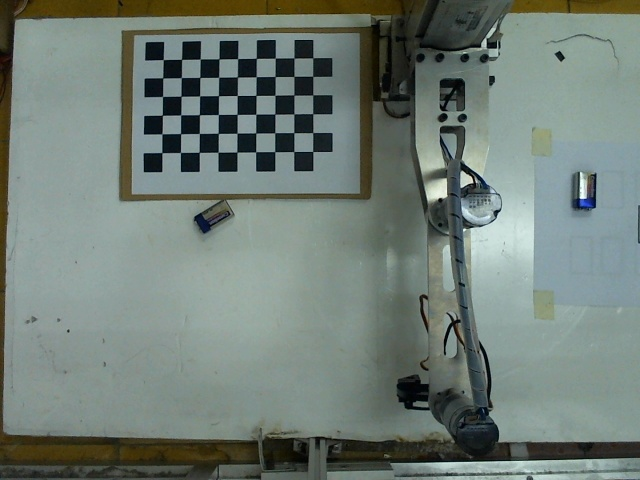
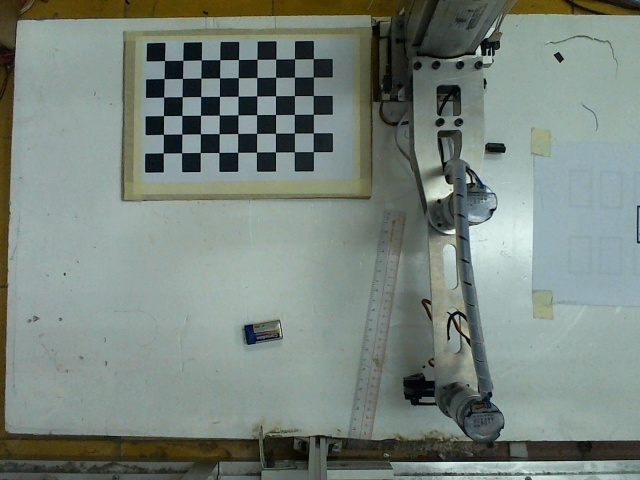
update for blue filter, new style message UART

diff --git a/MainController.py b/MainController.py
@@ -28,6 +28,7 @@ class Ui_MainControllerUI(object):
     stateAutoMode = False
     stateProcess = False
     stateHoming = False
+    mode = 1
     # running = threading.Event()
     # running.set()
     ser = serial.Serial()
@@ -368,7 +369,7 @@ class Ui_MainControllerUI(object):
 
         self.timer = QtCore.QTimer()
         self.timer.timeout.connect(self.read_data)
-        self.timer.start(300)
+        # self.timer.start(300)
         
         # Initialize callbacks and events
         ## For Screens
@@ -478,6 +479,7 @@ class Ui_MainControllerUI(object):
     '''Custom close event ***very important '''
     def closeEvent(self, *arg):
         self.ser = Ui_ConfigurationUI.ser
+        self.mode = Ui_ConfigurationUI.mode - 1
         self.SetState(Ui_ConfigurationUI.state)
            
     ''' Open Configuration Ui '''
@@ -526,50 +528,29 @@ class Ui_MainControllerUI(object):
         if self.state == True:
             buf = self.ser.read(self.ser.inWaiting())
             message = buf.decode('utf-8')
-            
-            # if b'[' in buf and b']' in buf:
-            #     start = buf.find(b'[')
-            #     buf = buf[start + 1:]
-            #     end = buf.find(b']')
-            #     message = buf[:end].decode('utf-8')
-            # else:
-            #     message = ''
         else:
             buf = 0
             message = ''
         if message != '':
+            print(message)
             command = message
-            print(len(command))
-            # arrayCoordinates = message.split(',')
-            # print(arrayCoordinates)
-            # self.xCurLbl.setText(arrayCoordinates[0])
-            # self.yCurLbl.setText(arrayCoordinates[1])
-            # self.zCurLbl.setText(arrayCoordinates[2])
-            # print(arrayCoordinates[3])
-            # print(arrayCoordinates[4])
             if command == 'c':
-                # for index in self.positionDictionary:
-                #     if arrayCoordinates[4] == index:
-                #         nextPoints = self.positionDictionary[index]
-                # nextX, nextY, nextAngle = nextPoints[0], nextPoints[1], nextPoints[2]
-                # mess = UARTMessage(nextX, nextY, nextAngle, 'r')
-                # mess_bytes = bytes(mess, encoding='utf-8')
-                # self.ser.write(mess_bytes)
-                print('cac')
-                
+                print('in c')
                 index = str(self.currentDestination)
                 nextPoints = self.positionDictionary[index]
                 nextX, nextY, nextAngle = nextPoints[0], nextPoints[1], nextPoints[2]
                 if self.currentDestination < 6:
                     self.currentDestination += 1
                 else:
-                    self.currentDestination = 1 
+                    self.currentDestination = 1
+                print(self.currentDestination) 
                 mess = UARTMessage(nextX, nextY, nextAngle, 'r')
                 mess_bytes = bytes(mess, encoding='utf-8')
                 
                 self.ser.write(mess_bytes)
-                print('cac2')
+                
             elif command == 'r':
+                print('in r')
                 logging.basicConfig(filename=self.FILE_LOG, level=logging.INFO)
                 t_log = GetTime()
                 logging.info(t_log + ': Object number ' + str(self.objectCounting) + ' done.')
@@ -578,9 +559,14 @@ class Ui_MainControllerUI(object):
                 self.sumX = 0
                 self.sumY = 0
                 self.sumAngle = 0
+                self.timer.stop()
+                
             else:
-                self.stateProcess = True 
-        self.timer.setInterval(500)
+                print('in nothing')
+                self.stateProcess = True
+        else:
+            pass
+        self.timer.setInterval(600)
         # return buf
 
     ########################################################################################
@@ -618,7 +604,7 @@ class Ui_MainControllerUI(object):
         
     def update_Image(self):
         try:
-            frame, cx, cy, angle = self.od.Process()
+            frame, cx, cy, angle = self.od.Process(self.mode)
             height, width, channel = frame.shape
             bytesPerLine = 3 * width
             qImg = QtGui.QImage(frame.data, width, height, bytesPerLine, QtGui.QImage.Format_RGB888).rgbSwapped()
@@ -660,6 +646,7 @@ class Ui_MainControllerUI(object):
                 message = UARTMessage(aveX, aveY, aveA, 'c')
                 message_bytes = bytes(message, encoding='utf-8')
                 self.ser.write(message_bytes)
+                self.timer.start(600)
                 # self.myTimer.start(8000)
             self.updateTimer.setInterval(4)
 

diff --git a/Configuration.py b/Configuration.py
@@ -1,10 +1,3 @@
-# -*- coding: utf-8 -*-
-
-# Form implementation generated from reading ui file 'E:\setup files\NVIDIA\GUI\screens\Configuration.ui'
-#
-# Created by: PyQt5 UI code generator 5.11.3
-#
-# WARNING! All changes made in this file will be lost!
 
 from PyQt5 import QtCore, QtGui, QtWidgets
 import time
@@ -14,7 +7,7 @@ import serial
 class Ui_ConfigurationUI(object):
     ser = 0
     state = False
-
+    mode = 1
     def setupUi(self, ConfigurationUI):
         ConfigurationUI.setObjectName("ConfigurationUI")
         ConfigurationUI.resize(290, 601)
@@ -176,8 +169,8 @@ class Ui_ConfigurationUI(object):
         self.handshakeCb.setItemText(0, _translate("ConfigurationUI", "OFF"))
         self.handshakeCb.setItemText(1, _translate("ConfigurationUI", "RTS/CTS"))
         self.label_6.setText(_translate("ConfigurationUI", "Mode"))
-        self.modeCb.setItemText(0, _translate("ConfigurationUI", "Free"))
-        self.modeCb.setItemText(1, _translate("ConfigurationUI", "Data"))
+        self.modeCb.setItemText(0, _translate("ConfigurationUI", "1"))
+        self.modeCb.setItemText(1, _translate("ConfigurationUI", "2"))
         self.modeCb.setItemText(2, _translate("ConfigurationUI", "Setup"))
         self.openBtn.setText(_translate("ConfigurationUI", "Open "))
         self.closeBtn.setText(_translate("ConfigurationUI", "Close "))
@@ -209,6 +202,7 @@ class Ui_ConfigurationUI(object):
         Ui_ConfigurationUI.ser.bytesize = bytesize
         Ui_ConfigurationUI.ser.parity = parity
         Ui_ConfigurationUI.ser.rtscts = handshake
+        Ui_ConfigurationUI.mode = int(self.modeCb.currentText())
         print(Ui_ConfigurationUI.ser)
         
 

diff --git a/ObjectDetection.py b/ObjectDetection.py
@@ -21,7 +21,7 @@ class ObjectDetection():
         self.colors = [tuple(255 * np.random.rand(3)) for _ in range(5)]
         # initialize our centroid tracker and frame dimensions
         self.ct = CentroidTracker()
-        self.vt = VelocityTracker(OrderedDict())
+        # self.vt = VelocityTracker(OrderedDict())
         self.pt = ProcessItem()
         self.capture = cv2.VideoCapture(0)
         
@@ -33,7 +33,8 @@ class ObjectDetection():
         self.cx = 0
         self.cy = 0
     
-    def Process(self):
+    def Process(self, mode):
+        pre_time = time.time()
         ret, frame = self.capture.read()
         # frame = cv2.resize(frame, (640, 360))
         frame_copy = frame.copy()
@@ -54,9 +55,10 @@ class ObjectDetection():
                 frame_copy = cv2.rectangle(frame_copy, tl, br, (0, 255, 0), 2)    
         objects = self.ct.update(rects)
         self.pt.updateObject(rects, objects)
-        (crop, angle, cx, cy) = self.pt.updateAngle(frame, 0)
-        self.vt.update(objects)
-        self.vt.velocityChange()
+        (crop, angle, cx, cy) = self.pt.updateAngle(frame, mode)
+        # self.vt.update(objects)
+        # self.vt.velocityChange()
+        
         if crop is not None:
             return frame_copy, cx, cy, angle
         else:

diff --git a/ProcessItem.py b/ProcessItem.py
@@ -157,6 +157,7 @@ class ProcessItem():
 
             dodai1 = self.calculation(cen1, tam)
             dodai2 = self.calculation(cen2, tam)
+            # print(dodai1, dodai2)
             if dodai1 > dodai2:
                 dau = cen2
                 dit = cen1
@@ -176,7 +177,7 @@ class ProcessItem():
             cos = v_dot / (d1*d2)
             
             #for debugging
-            print(dau, dit)
+            # print(dau, dit)
             # Positive
             if dau[1] > dit[1]:
                 angle = math.acos(cos)
@@ -186,7 +187,7 @@ class ProcessItem():
                 angle = 0
             elif dau[0] < dit[0]:
                 angle = math.acos(-1)
-            print(angle)
+            # print(angle)
             #endregion
 
             # Return real world center of product.
@@ -200,7 +201,7 @@ class ProcessItem():
 
     def BlueFilter(self, img):
         hsv = cv2.cvtColor(img, cv2.COLOR_BGR2HSV)
-        lower_blue = np.array([96,180,30], dtype=np.uint8)
+        lower_blue = np.array([110,180,30], dtype=np.uint8)
         upper_blue = np.array([118,255,255], dtype=np.uint8)
         mask = cv2.inRange(hsv, lower_blue, upper_blue)
         res = cv2.bitwise_and(img, img, mask = mask)
